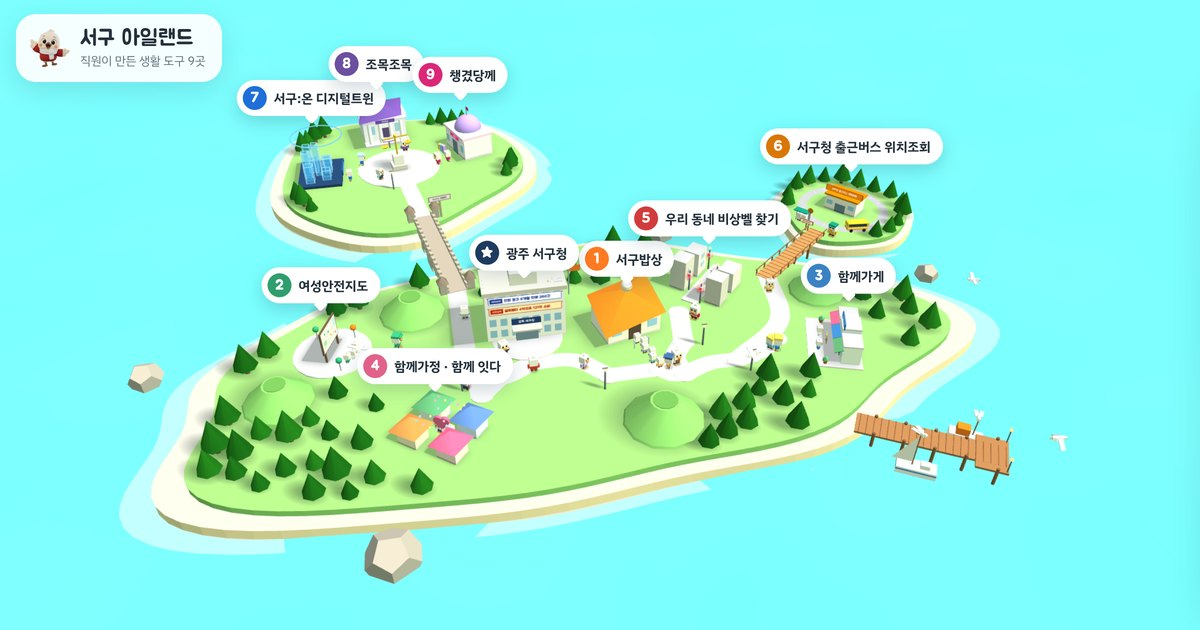
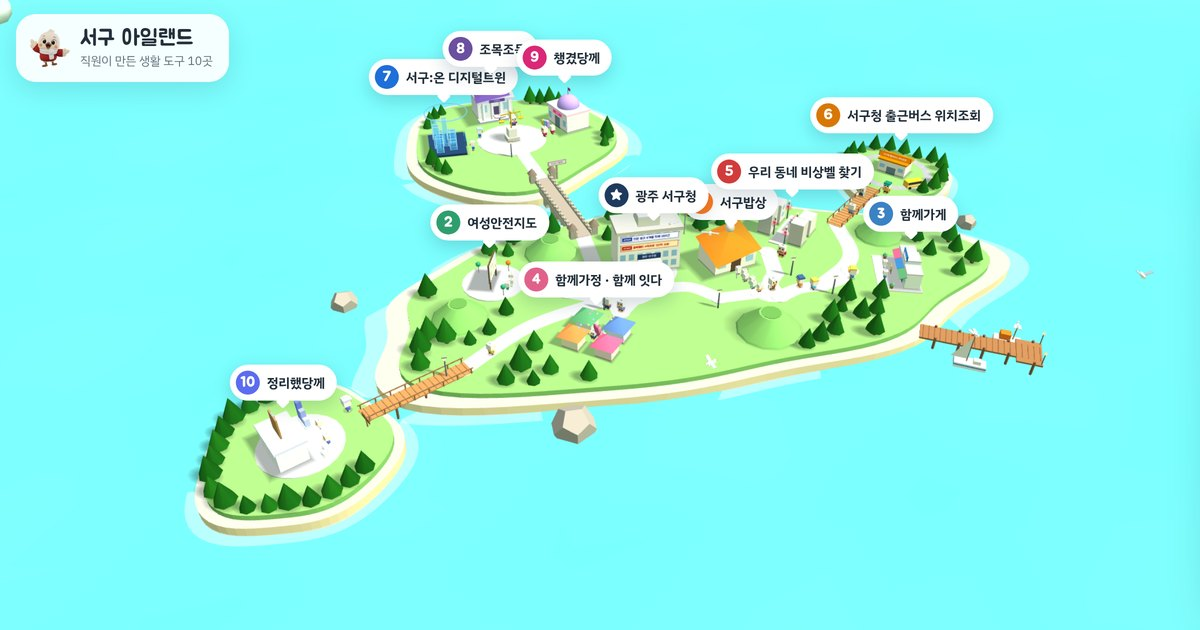
Island: add 다비치 아일랜드 (south-west islet over a wooden bridge) with 정리했당께, a survey tally app — office with a rooftop checklist, bar-chart sculpture, guide 해온이 and card #10; widen the overview so all four islands fit; count now 10; new share preview
Claude-Session: https://claude.ai/code/session_01Rn2FnTmWsitNSVHCMP1upV

diff --git a/index.html b/index.html
@@ -3,9 +3,9 @@
 <head>
 <meta charset="utf-8">
 <meta name="viewport" content="width=device-width,initial-scale=1,viewport-fit=cover">
-<meta name="description" content="서구청 직원이 만든 생활 도구 9곳 — 서구밥상, 여성안전지도, 함께가게, 함께가정, 우리 동네 비상벨 찾기, 서구청 출근버스 위치조회, 서구:온, 조목조목, 챙겼당께">
+<meta name="description" content="서구청 직원이 만든 생활 도구 10곳 — 서구밥상, 여성안전지도, 함께가게, 함께가정, 우리 동네 비상벨 찾기, 서구청 출근버스 위치조회, 서구:온, 조목조목, 챙겼당께, 정리했당께">
 <meta property="og:title" content="서구 아일랜드">
-<meta property="og:description" content="해온이와 함께 둘러보는 서구 생활 도구 9곳. 눌러서 바로 쓰고, 휴대폰에 설치하세요.">
+<meta property="og:description" content="해온이와 함께 둘러보는 서구 생활 도구 10곳. 눌러서 바로 쓰고, 휴대폰에 설치하세요.">
 <meta property="og:type" content="website">
 <meta property="og:url" content="https://hkejys9654-tech.github.io/seogu-island/">
 <meta property="og:image" content="https://hkejys9654-tech.github.io/seogu-island/og.jpg">
@@ -190,7 +190,7 @@ window.SKY=(function(){
 <div class="loading" id="loading"><img alt="" id="loadImg"></div>
 
 <div class="top">
-  <div class="brand"><img alt="" id="brandImg"><div><h1>서구 아일랜드</h1><p>직원이 만든 생활 도구 9곳</p></div></div>
+  <div class="brand"><img alt="" id="brandImg"><div><h1>서구 아일랜드</h1><p>직원이 만든 생활 도구 10곳</p></div></div>
   <div class="tools">
     <button class="tbtn" id="viewBtn" type="button">목록으로 보기</button>
     <div class="tools-row"><button class="ibtn" id="helpBtn" type="button" aria-label="조작 방법 보기" hidden>?</button><button class="ibtn" id="sndBtn" type="button" aria-label="파도·갈매기 소리 켜기" aria-pressed="false">🔇</button></div>
@@ -284,7 +284,11 @@ const PROJECTS=[
   {key:"chaeng",no:"09",name:"챙겼당께",color:"#db2777",pose:"heart",who:"의회·예산 업무를 맡은 공무원",island:"저스티스 아일랜드",by:"의형 개발",
    one:"의회 회의록·예산·조례를 함께 찾아, 근거가 담긴 의회 답변자료와 보고전을 만들어요.",
    chips:["의회 회의록 검색","예산·집행 확인","답변자료·보고전 한글 파일"],url:"https://local-govern.vercel.app/",
-   talk:{hi:"반가워요! 의회 답변 근거를 챙겨 드리는 챙김 해온이예요.",what:"한 줄로 물어보면 여러 해의 회의록·예산·조례를 함께 확인해서, 사업 설명과 예상 답변을 근거와 함께 정리해 주는 AI 서비스예요.",who:"의회·예산·조례 대응 업무를 맡은 공무원이 써요. 의형 님이 만들었어요."}}
+   talk:{hi:"반가워요! 의회 답변 근거를 챙겨 드리는 챙김 해온이예요.",what:"한 줄로 물어보면 여러 해의 회의록·예산·조례를 함께 확인해서, 사업 설명과 예상 답변을 근거와 함께 정리해 주는 AI 서비스예요.",who:"의회·예산·조례 대응 업무를 맡은 공무원이 써요. 의형 님이 만들었어요."}},
+  {key:"jeongri",no:"10",name:"정리했당께",color:"#5b6cf0",pose:"thumbs",who:"만족도 조사를 맡은 담당자",island:"다비치 아일랜드",
+   one:"종이 만족도 조사지를 스캔해 올리면 표시한 답을 자동으로 읽어 문항별로 모아줘요.",
+   chips:["빈 설문지 등록","응답지 한꺼번에 올리기","자동 집계·CSV"],url:"https://qnpfr7-del.github.io/KMK/",
+   talk:{hi:"다비치 아일랜드에 온 걸 환영해요! 설문지를 척척 정리하는 정리 해온이예요.",what:"종이 만족도 조사지를 스캔해서 올리면, 빈 설문지와 비교해 표시한 답을 자동으로 읽고 문항별·프로그램별로 모아 주는 앱이에요. 결과는 CSV로 내려받을 수 있어요.",who:"종이 설문으로 만족도 조사를 하는 담당자라면 누구나 써요. 빈 설문지를 먼저 등록하고, 응답지를 한꺼번에 올리면 돼요."}}
 ];
 
 // 처음 열 때 쓰는 기본 기사(매일 아침 news.json 으로 바뀜)
@@ -338,23 +342,24 @@ slab(1,6.1,.35,M(0xf1dfae));   // sand (바다 바닥까지)
 slab(.93,1.2,.9,M(0x84c46a));  // grass
 
 /* ---------- 작은 섬들: 정미니 아일랜드(동북쪽), 저스티스 아일랜드(서구청 뒤 북쪽) ---------- */
-const ISLES=[{x:33,z:-19,r:7.5,s:[1,2]},{x:-15,z:-38,r:15.5,s:[2.2,.4]}],JC=ISLES[1];
+const ISLES=[{x:33,z:-19,r:7.5,s:[1,2]},{x:-15,z:-38,r:15.5,s:[2.2,.4]},{x:-40,z:17,r:8.5,s:[.7,1.9]}],JC=ISLES[1],DC=ISLES[2];/* 정미니(동북), 저스티스(서구청 뒤 북쪽), 다비치(남서쪽) */
 function Rk(I,a){return I.r*(1+.05*Math.sin(3*a+I.s[0])+.03*Math.sin(5*a+I.s[1]));}
 function rhoI(I,x,z){const dx=x-I.x,dz=z-I.z;return Math.hypot(dx,dz)/Rk(I,Math.atan2(dz,dx));}
 function marchBridge(I,T){const dx=T.x-I.x,dz=T.z-I.z,L=Math.hypot(dx,dz),ux=dx/L,uz=dz/L;let s=0;while(rhoI(I,I.x+ux*s,I.z+uz*s)<.82)s+=.05;const B={x:I.x+ux*s,z:I.z+uz*s};while(rhoAt(I.x+ux*s,I.z+uz*s)>.8)s+=.05;return {A:{x:I.x+ux*s,z:I.z+uz*s},B,ry:Math.atan2(ux,uz)};}
 const JB=marchBridge(JC,{x:-9,z:-8}),JRY=JB.ry;// 저스티스 아일랜드의 앞쪽(다리 쪽) 방향
-const BRIDGES=[{A:{x:20.4,z:-8.3},B:{x:28.1,z:-14.8},stone:false},{A:JB.A,B:JB.B,stone:true}];
+const DB=marchBridge(DC,{x:-22,z:8});
+const BRIDGES=[{A:{x:20.4,z:-8.3},B:{x:28.1,z:-14.8},stone:false},{A:JB.A,B:JB.B,stone:true},{A:DB.A,B:DB.B,stone:false}];
 function jl(lx,lz,lry,reach){const c=Math.cos(JRY),s=Math.sin(JRY);return [JC.x+lx*c+lz*s,JC.z-lx*s+lz*c,lry+JRY,reach,1.3];}// 섬 기준 좌표 → 지도 좌표
 /* ---------- 배치: 십자 모양 대신 섬 곳곳에 흩어진 건물과 구불구불한 길 ---------- */
 const HX=-4,HZ=-3;// 광주 서구청(가운데에서 살짝 서쪽)
 // x, z, 건물 앞쪽 방향, 앞쪽 길이 닿는 거리
 const LAYOUT={bapsang:[5,-3,.25,6.6],safety:[-21,-4,1.25,5.4],store:[23,3,-1.9,5.4],family:[-12,8,2.46,5.4],bell:[14,-8,-.75,5.4],bus:[33,-19,-.869,5.8],
-  seoguon:jl(-8.6,-1.6,1.39,4.4),jomok:jl(0,-8.6,0,4.4),chaeng:jl(8.6,-1.6,-1.39,4.4)};
+  seoguon:jl(-8.6,-1.6,1.39,4.4),jomok:jl(0,-8.6,0,4.4),chaeng:jl(8.6,-1.6,-1.39,4.4),jeongri:[DC.x,DC.z,DB.ry,5.4]};
 const ZONES=PROJECTS.map(p=>{const [x,z,ry,reach,sc]=LAYOUT[p.key],fx=Math.sin(ry),fz=Math.cos(ry);return {x,z,ry,fx,fz,ex:x+fx*reach,ez:z+fz*reach,sc:sc||1,p};});
-const PN={br0:[20.4,-8.3],jA:[JB.A.x,JB.A.z],jB:[JB.B.x,JB.B.z],jP:[JC.x+Math.sin(JRY)*4.6,JC.z+Math.cos(JRY)*4.6],hub:[HX,HZ+3.6],w1:[-9.5,1.4],w2:[-13.4,-.6],e1:[2.2,3.4],e2:[8.6,4.4],e3:[13.6,3.4],b1:[9.6,.2]};
+const PN={dA:[DB.A.x,DB.A.z],br0:[20.4,-8.3],jA:[JB.A.x,JB.A.z],jB:[JB.B.x,JB.B.z],jP:[JC.x+Math.sin(JRY)*4.6,JC.z+Math.cos(JRY)*4.6],hub:[HX,HZ+3.6],w1:[-9.5,1.4],w2:[-13.4,-.6],e1:[2.2,3.4],e2:[8.6,4.4],e3:[13.6,3.4],b1:[9.6,.2]};
 ZONES.forEach(z=>PN[z.p.key]=[z.ex,z.ez]);
 const EDGES=[["hub","w1"],["w1","w2"],["w2","safety"],["w1","family"],["hub","family"],["hub","e1"],["e1","bapsang"],["bapsang","e2"],["e2","e3"],["e3","store"],["e2","b1"],["b1","bell"],["e3","br0"],["w1","jA",0],
-  ["jB","jP",0],["jP","seoguon",0],["jP","chaeng",0],["seoguon","jomok",0],["jomok","chaeng",0]];
+  ["jB","jP",0],["jP","seoguon",0],["jP","chaeng",0],["seoguon","jomok",0],["jomok","chaeng",0],["w1","dA",.08]];
 const PATH_PTS=[],NODES=[],nodeOf={};
 function addNode(x,z){NODES.push({x,z,n:[]});return NODES.length-1;}
 function link(a,b){NODES[a].n.push(b);NODES[b].n.push(a);}
@@ -367,12 +372,12 @@ EDGES.forEach(([a,b,bend],i)=>{
   const pos=[],idx=[];pts.forEach((p,k)=>{const q=pts[Math.min(k+1,pts.length-1)],r=pts[Math.max(k-1,0)],tx=q.x-r.x,tz=q.z-r.z,tl=Math.hypot(tx,tz)||1,nx=-tz/tl*.9,nz=tx/tl*.9;pos.push(p.x+nx,.96,p.z+nz,p.x-nx,.96,p.z-nz);if(k)idx.push(2*k-2,2*k-1,2*k,2*k-1,2*k+1,2*k);});
   const g=new THREE.BufferGeometry();g.setAttribute("position",new THREE.Float32BufferAttribute(pos,3));g.setIndex(idx);g.computeVertexNormals();scene.add(new THREE.Mesh(g,pathMat));
   let prev=nodeOf[a];for(let k=4;k<pts.length-2;k+=4){const id=addNode(pts[k].x,pts[k].z);link(prev,id);prev=id;}link(prev,nodeOf[b]);});
-[["br0","bus",0],["jA","jB",1]].forEach(([a,b,k0])=>{const Br=BRIDGES[k0];let prev=nodeOf[a];for(let k=1;k<=4;k++){const id=addNode(Br.A.x+(Br.B.x-Br.A.x)*k/5,Br.A.z+(Br.B.z-Br.A.z)*k/5);link(prev,id);prev=id;}link(prev,nodeOf[b]);});// 다리 건너 작은 섬으로
+[["br0","bus",0],["jA","jB",1],["dA","jeongri",2]].forEach(([a,b,k0])=>{const Br=BRIDGES[k0];let prev=nodeOf[a];for(let k=1;k<=4;k++){const id=addNode(Br.A.x+(Br.B.x-Br.A.x)*k/5,Br.A.z+(Br.B.z-Br.A.z)*k/5);link(prev,id);prev=id;}link(prev,nodeOf[b]);});// 다리 건너 작은 섬으로
 ZONES.forEach(z=>NODES[nodeOf[z.p.key]].end=z.ry+Math.PI);// 길 끝에서는 건물을 바라봄
-Object.keys(PN).forEach(k=>{if(!["hub","bus","seoguon","jomok","chaeng"].includes(k))cyl(1,1,.1,0xe9dcc0,PN[k][0],.91,PN[k][1],null,14);});
+Object.keys(PN).forEach(k=>{if(!["hub","bus","seoguon","jomok","chaeng","jeongri"].includes(k))cyl(1,1,.1,0xe9dcc0,PN[k][0],.91,PN[k][1],null,14);});
 cyl(3.2,3.2,0.14,0xe9dcc0,HX,0.95,HZ,null,20);
 /* 가로등: 길목 다섯 곳 옆 빈 자리에 세워 밤에 불을 밝힘 */
-const LAMP_AT=["w1","e1","e3","b1","jP"].map(k=>{let best=null,bd=-1;for(let i=0;i<8;i++){const a=i*Math.PI/4+.4,x=PN[k][0]+Math.cos(a)*1.7,z=PN[k][1]+Math.sin(a)*1.7;let d=1e9;for(const q of PATH_PTS)d=Math.min(d,Math.hypot(x-q.x,z-q.z));if(d>bd){bd=d;best=[x,z];}}return best;});
+const LAMP_AT=["w1","e1","e3","b1","jP","dA"].map(k=>{let best=null,bd=-1;for(let i=0;i<8;i++){const a=i*Math.PI/4+.4,x=PN[k][0]+Math.cos(a)*1.7,z=PN[k][1]+Math.sin(a)*1.7;let d=1e9;for(const q of PATH_PTS)d=Math.min(d,Math.hypot(x-q.x,z-q.z));if(d>bd){bd=d;best=[x,z];}}return best;});
 LAMP_AT.forEach(([x,z])=>{const l=new THREE.Group();l.position.set(x,3.02,z);scene.add(l);LAMPS.push(l);});
 
 /* ---------- 작은 섬 땅 + 다리(정미니: 나무다리, 저스티스: 중세 돌다리) ---------- */
@@ -610,9 +615,28 @@ function zoneChaeng(g){
   [[-1.4,0xf5c84c],[-.95,0x7cc4e8],[-.5,0xb59ae8]].forEach(([x,c],k)=>{box(.4,.55+k*.12,.3,c,x,(.55+k*.12)/2,2,g);});
   person(1.2,2.4,g,0xdb2777);
 }
+/* ---------- zone 10: 정리했당께 (다비치 아일랜드: 설문 집계 사무소 + 지붕 위 큰 체크리스트 + 막대그래프) ---------- */
+function zoneJeongri(g){
+  cyl(3.8,3.8,.1,0xeceafc,0,.06,.3,g,24);
+  box(4.2,2.2,2.6,0xf6f5ff,0,1.1,-1,g);box(4.5,.2,2.9,0xd9dcfb,0,2.3,-1,g);
+  box(.9,1.3,.06,0x4f5aa8,0,.65,.31,g);[-1.45,1.45].forEach(x=>win(g,x,1.15,.31,.75,.6));
+  box(2.05,.46,.08,0x4453c9,0,1.78,.31,g);signPlate(g,"정리했당께","#5b6cf0",1.9,1.78,.36);
+  // 지붕 위 큰 체크리스트(클립보드)
+  const ck=canvasTex(160,200,(x,w,h)=>{x.fillStyle="#fff";x.fillRect(0,0,w,h);for(let r=0;r<4;r++){const y=34+r*42;x.strokeStyle="#c9cff7";x.lineWidth=4;x.strokeRect(16,y-12,24,24);x.fillStyle="#dfe3f5";x.fillRect(52,y-5,88,10);
+    if(r<3){x.strokeStyle="#22b07d";x.lineWidth=7;x.lineCap="round";x.beginPath();x.moveTo(19,y);x.lineTo(27,y+8);x.lineTo(43,y-12);x.stroke();}}});
+  box(1.7,2.1,.14,0xb08350,0,3.5,-1.2,g);const pp=new THREE.Mesh(new THREE.PlaneGeometry(1.42,1.78),new THREE.MeshLambertMaterial({map:ck}));pp.position.set(0,3.42,-1.12);g.add(pp);box(.62,.2,.16,0x9aa3ab,0,4.5,-1.16,g);
+  // 막대그래프 조형물
+  box(1.9,.12,.7,0xd9dcfb,2.45,.12,1.7,g);[[1.85,.8,0xc7d0ff],[2.45,1.4,0x9fadfa],[3.05,2,0x6f7ff2]].forEach(([x,h,c])=>box(.46,h,.46,c,x,.18+h/2,1.7,g));
+  // 설문지 더미
+  [[-2.5,1.5],[-1.85,1.9]].forEach(([x,z],k)=>{for(let i=0;i<4-k;i++){const s=box(.66,.1,.5,i%2?0xfffdf5:0xffffff,x,.16+i*.1,z,g);s.rotation.y=(i%2?.18:-.1)+k*.3;}});
+  // 섬 입구 표지판: 다비치 아일랜드
+  const dTex=canvasTex(384,96,(x,w,h)=>{x.fillStyle="#eef0fd";x.fillRect(0,0,w,h);x.strokeStyle="#5b6cf0";x.lineWidth=8;x.strokeRect(4,4,w-8,h-8);x.fillStyle="#3f4bb8";x.font='bold 44px "Jua","IBM Plex Sans KR",sans-serif';x.textAlign="center";x.textBaseline="middle";x.fillText("다비치 아일랜드",w/2,h/2+3);});
+  box(.1,1.1,.1,0x8a6440,-1.4,.55,5.9,g);box(1.5,.42,.08,0x8a6440,-1.4,1.05,5.9,g);const ds=new THREE.Mesh(new THREE.PlaneGeometry(1.4,.35),new THREE.MeshBasicMaterial({map:dTex}));ds.position.set(-1.4,1.05,5.95);g.add(ds);
+  person(-1.2,2.3,g,0x5b6cf0);person(.9,2.5,g,0xffffff);
+}
 const glowTex=canvasTex(64,64,(x,w,h)=>{const r=x.createRadialGradient(32,32,2,32,32,32);r.addColorStop(0,"rgba(255,255,255,1)");r.addColorStop(1,"rgba(255,255,255,0)");x.fillStyle=r;x.fillRect(0,0,w,h);});
 
-const builders={bapsang:zoneBapsang,safety:zoneSafety,store:zoneStore,family:zoneFamily,bell:zoneBell,bus:zoneBus,seoguon:zoneSeoguon,jomok:zoneJomok,chaeng:zoneChaeng};
+const builders={bapsang:zoneBapsang,safety:zoneSafety,store:zoneStore,family:zoneFamily,bell:zoneBell,bus:zoneBus,seoguon:zoneSeoguon,jomok:zoneJomok,chaeng:zoneChaeng,jeongri:zoneJeongri};
 ZONES.forEach((z,i)=>{const g=new THREE.Group();g.position.set(z.x,0.9,z.z);g.rotation.y=z.ry;g.scale.setScalar(z.sc);builders[z.p.key](g);scene.add(g);z.group=g;
   g.traverse(o=>{if(o.isMesh)o.userData.zone=i;});
   const ring=new THREE.Mesh(new THREE.RingGeometry(4.6,4.9,40),new THREE.MeshBasicMaterial({color:new THREE.Color(z.p.color),transparent:true,opacity:0}));ring.rotation.x=-Math.PI/2;ring.position.set(z.x,0.97,z.z);if(z.p.key==="jomok")ring.visible=false;scene.add(ring);z.ring=ring;
@@ -634,8 +658,8 @@ function clearSpot(x,z){if(rhoAt(x,z)>.88)return false;
 const TREE=[];
 for(let i=0;i<900&&TREE.length<110;i++){const a=rnd()*Math.PI*2,f=.5+Math.sqrt(rnd())*.38,k=coastK(a)*f,x=Math.cos(a)*IA*k,z=Math.sin(a)*IB*k;
   if(!clearSpot(x,z)||TREE.some(([tx,tz])=>Math.hypot(tx-x,tz-z)<1.8))continue;TREE.push([x,z,.75+rnd()*.5]);}
-ISLES.forEach((I,ii)=>{const Br=BRIDGES[ii],front=Math.atan2(Br.A.z-I.z,Br.A.x-I.x),skip=ZONES.filter(z=>rhoI(I,z.x,z.z)<1&&Math.hypot(z.x-I.x,z.z-I.z)>2).map(z=>Math.atan2(z.z-I.z,z.x-I.x)),cnt=ii?36:14;
-  for(let k=0;k<cnt;k++){const a=front+1.05+k*(Math.PI*2-2.1)/(cnt-1);if(skip.some(b=>Math.abs(((a-b+Math.PI*3)%(Math.PI*2))-Math.PI)<.42))continue;const r=Rk(I,a)*.82;if(ii&&Math.hypot(I.x+Math.cos(a)*r-JC.sign.position.x,I.z+Math.sin(a)*r-JC.sign.position.z)<4)continue;TREE.push([I.x+Math.cos(a)*r,I.z+Math.sin(a)*r,.75+rnd()*.4]);}});// 작은 섬 둘레 나무
+ISLES.forEach((I,ii)=>{const Br=BRIDGES[ii],front=Math.atan2(Br.A.z-I.z,Br.A.x-I.x),skip=ZONES.filter(z=>rhoI(I,z.x,z.z)<1&&Math.hypot(z.x-I.x,z.z-I.z)>2).map(z=>Math.atan2(z.z-I.z,z.x-I.x)),cnt=[14,36,18][ii];
+  for(let k=0;k<cnt;k++){const a=front+1.05+k*(Math.PI*2-2.1)/(cnt-1);if(skip.some(b=>Math.abs(((a-b+Math.PI*3)%(Math.PI*2))-Math.PI)<.42))continue;const r=Rk(I,a)*.82;if(ii===1&&Math.hypot(I.x+Math.cos(a)*r-JC.sign.position.x,I.z+Math.sin(a)*r-JC.sign.position.z)<4)continue;TREE.push([I.x+Math.cos(a)*r,I.z+Math.sin(a)*r,.75+rnd()*.4]);}});// 작은 섬 둘레 나무
 const trunks=new THREE.InstancedMesh(new THREE.CylinderGeometry(0.15,0.2,1,6),M(0x7a5536),TREE.length);
 const leaves=new THREE.InstancedMesh(new THREE.ConeGeometry(0.9,2,7),M(0x4f9a4a),TREE.length);
 const m4=new THREE.Matrix4(),q=new THREE.Quaternion(),one=new THREE.Vector3();
@@ -701,7 +725,7 @@ function walkable(x,z){if(rhoAt(x,z)<=.86||ISLES.some(I=>rhoI(I,x,z)<=.84))retur
 scene.updateMatrixWorld(true);
 const OBST=[],RECTS=[{x0:HX-3.75,x1:HX+3.75,z0:HZ-3.55,z1:HZ+.38,h:8,top:6.4}];
 // 건물마다 지붕 높이(건물 기준): 날다가 그 위에 내려앉아 걸을 수 있음
-const ROOF_TOP={bapsang:3.3,store:2.2,family:2.2,bus:1.95,jomok:2.6,chaeng:2.3,bell:2.6};
+const ROOF_TOP={jeongri:2.4,bapsang:3.3,store:2.2,family:2.2,bus:1.95,jomok:2.6,chaeng:2.3,bell:2.6};
 const LOCAL_OBST={
   bapsang:[[-1.6,0,1.9],[0,0,1.9],[1.6,0,1.9],[-.7,3.2,.15],[.7,3.2,.15],...[0,1,2,3,4,5].map(i=>[0,2.6+i*.75,.3])],
   safety:[[-1.1,0,.5],[-.35,0,.5],[.35,0,.5],[1.1,0,.5],[-2.2,1.6,.3],[2.3,1.2,.3],[1.6,-2,.3],[-1,1.8,.3],[-.4,2.1,.3],[.6,1.9,.3]],
@@ -711,6 +735,7 @@ const LOCAL_OBST={
   seoguon:[[-1.3,-.6,1.3],[1.1,-.6,1.3],[0,1.1,.9],[-1.6,2.4,.3]],
   jomok:[[-1.1,-.6,1.4],[1.1,-.6,1.4],...[-1.5,-.5,.5,1.5].map(x=>[x,1.1,.25]),[0,2.2,.4],[1.3,2.6,.3]],
   chaeng:[[-1.1,-.4,1.4],[1.1,-.4,1.4],[-.95,2,.5],[1.2,2.4,.3]],
+  jeongri:[[-1.1,-1,1.4],[1.1,-1,1.4],[2.45,1.7,.75],[-2.2,1.7,.5],[-1.2,2.3,.3],[.9,2.5,.3],[-1.4,5.9,.15]],
   bell:[[-2,-1.6,1.1,2.6],[-2,1.2,1.15,3.2],[2,-1,1.15,2.2],[2,1.8,1,2.8],[-.95,-2.6,.2],[.95,-.4,.2],[-.95,1.6,.2],[.95,3,.2],[.2,-1.4,.3]]};
 {const v=new THREE.Vector3();ZONES.forEach(z=>LOCAL_OBST[z.p.key].forEach(([x,y,r,tp])=>{v.set(x,0,y);z.group.localToWorld(v);const rt=r>.9?(tp!==undefined?tp:ROOF_TOP[z.p.key]):0;OBST.push({x:v.x,z:v.z,r:r*z.sc,h:r>.9?4.6*z.sc:0,top:rt?.9+rt*z.sc:0});}));}
 PIER.posts.forEach(q=>OBST.push({x:q.x,z:q.z,r:.16,h:0,top:q.y}));[boat,sail].forEach(b=>OBST.push({x:b.position.x,z:b.position.z,r:1.25,h:0,top:.08,sr:1.1}));
@@ -770,7 +795,7 @@ const moonMat=new THREE.SpriteMaterial({map:canvasTex(128,128,(x)=>{const r=x.cr
 const SH_ROUND=[],SH_RECT=[];
 TREE.forEach(([x,z,s])=>SH_ROUND.push([x,z,.85*s,1.8*s]));OREUM.forEach(([x,z,r])=>SH_ROUND.push([x,z,r*.95,r*.45]));SH_ROUND.push([JC.x,JC.z,1.3,3.2]);LAMP_AT.forEach(([x,z])=>SH_ROUND.push([x,z,.22,3]));
 SH_RECT.push([HX,HZ-1.6,7.4,3.8,0,6.2]);
-{const L={bapsang:[[0,0,5.6,4,3]],store:[[0,-.8,5.9,1.8,2]],family:[[-1.8,-1.2,2,1.8,1.7],[1.8,-1.4,2,1.8,1.7],[-1.6,1.8,2,1.8,1.7],[1.9,1.6,2,1.8,1.7]],bell:[[-2,-1.6,1.6,1.8,2.6],[-2,1.2,1.6,1.8,3.2],[2,-1,1.6,2,2.2],[2,1.8,1.6,1.6,2.8]],bus:[[0,-.2,3.8,2.4,1.8]],seoguon:[[0,-.2,5,3.8,1.2]],jomok:[[0,-.2,4.4,3.8,2.6]],chaeng:[[0,-.4,4.3,3.1,2.2]],safety:[[0,0,3.2,.5,3.2]]},v=new THREE.Vector3();
+{const L={bapsang:[[0,0,5.6,4,3]],store:[[0,-.8,5.9,1.8,2]],family:[[-1.8,-1.2,2,1.8,1.7],[1.8,-1.4,2,1.8,1.7],[-1.6,1.8,2,1.8,1.7],[1.9,1.6,2,1.8,1.7]],bell:[[-2,-1.6,1.6,1.8,2.6],[-2,1.2,1.6,1.8,3.2],[2,-1,1.6,2,2.2],[2,1.8,1.6,1.6,2.8]],bus:[[0,-.2,3.8,2.4,1.8]],seoguon:[[0,-.2,5,3.8,1.2]],jomok:[[0,-.2,4.4,3.8,2.6]],chaeng:[[0,-.4,4.3,3.1,2.2]],jeongri:[[0,-1,4.4,2.8,2.4]],safety:[[0,0,3.2,.5,3.2]]},v=new THREE.Vector3();
   ZONES.forEach(z=>(L[z.p.key]||[]).forEach(([x,y,w,d,h])=>{v.set(x,0,y);z.group.localToWorld(v);SH_RECT.push([v.x,v.z,w*z.sc,d*z.sc,z.ry,h*z.sc]);}));}
 const SHM=new THREE.MeshBasicMaterial({color:0x12241d,vertexColors:true,transparent:true,opacity:.34,depthWrite:false,side:THREE.DoubleSide,polygonOffset:true,polygonOffsetFactor:-2,polygonOffsetUnits:-2});
 /* 가운데는 진하고 가장자리로 갈수록 옅어지는 납작한 모양(그림 파일 없이 꼭짓점 투명도로 만듦) */
@@ -800,7 +825,8 @@ const NPC_LOOK={
   bus:{name:"버스 해온이",look:{top:0xf5b82e,pants:0x2d3440,cap:0x14866d,extra:"collar"}},
   seoguon:{name:"트윈 해온이",look:{top:0x1e6fd9,pants:0x22355a,cap:0x9be7ff,extra:"collar"}},
   jomok:{name:"조목 해온이",look:{top:0x6b4fa0,pants:0x2d3440,extra:"suit"}},
-  chaeng:{name:"챙김 해온이",look:{top:0xdb2777,pants:0x2e3f63,extra:"scarf",scarf:0xf5c84c}}};
+  chaeng:{name:"챙김 해온이",look:{top:0xdb2777,pants:0x2e3f63,extra:"scarf",scarf:0xf5c84c}},
+  jeongri:{name:"정리 해온이",look:{top:0x5b6cf0,pants:0x2d3440,cap:0xc7d0ff,extra:"collar"}}};
 const NPCS=[...ZONES.map(z=>({...NPC_LOOK[z.p.key],zone:z})),{name:"안내 해온이",look:{top:0x22355a,pants:0x22355a,extra:"suit"}}].map((n,i)=>{
   let x=HX-2.3,z=HZ+2.1,yaw=.35;if(n.zone){const q=n.zone;x=q.ex+q.fz*1.6;z=q.ez-q.fx*1.6;yaw=q.ry;}
   const h=makeHaeon(n.look,1);h.root.position.set(x,groundAt(x,z),z);h.root.rotation.y=h.yaw=h.home=yaw;h.root.userData.npc=i;scene.add(h.root);
@@ -834,7 +860,7 @@ function updateWalkers(dt){walkers.forEach(w=>{
 
 /* ---------- camera rig ---------- */
 // 섬 전체 보기: 가로 화면은 남쪽에서, 세로 화면(폰)은 섬을 세로로 길게 보이도록 동쪽에서
-function overview(){const r=innerWidth/innerHeight;return r<.8?{tx:-2.7,ty:1,tz:-10.6,az:-2.09,el:.86,dist:r<.6?226:198,ox:0,oy:0}:{tx:3,ty:1,tz:-5,az:-.2,el:.66,dist:r<1.25?96:82,ox:0,oy:0};}
+function overview(){const r=innerWidth/innerHeight;return r<.8?{tx:-13,ty:1,tz:-16,az:-1.3,el:.86,dist:Math.min(250,116/r),ox:0,oy:0}:{tx:-11,ty:1,tz:4,az:-.2,el:.66,dist:r<1.25?112:r<1.5?98:90,ox:0,oy:0};}
 function nearAng(a,cur){return cur+(((a-cur+Math.PI)%(Math.PI*2))+Math.PI*2)%(Math.PI*2)-Math.PI;}
 function overGoal(){const o=overview(),a=nearAng(o.az,rig.az),b=nearAng(o.az+Math.PI,rig.az);o.az=innerWidth/innerHeight<.8||Math.abs(a-rig.az)<=Math.abs(b-rig.az)?a:b;return o;}// 폰은 정미니 아일랜드가 위쪽에 보이도록 방향 고정
 const LAND_AZ=.08;function hallView(){const narrow=innerWidth/innerHeight<.8;return {tx:HX,ty:3,tz:HZ,az:LAND_AZ,el:.36,dist:narrow?36:28,ox:0,oy:0};}
@@ -1037,7 +1063,7 @@ function talkContent(i,step){
     if(step==="news"){const items=(NEWS.items||[]).slice(0,2);
       return {msg:items.length?"오늘 여러 언론이 많이 다룬 서구 소식이에요. 구청 현수막에도 걸어뒀어요!":"오늘 소식을 아직 못 가져왔어요. 조금 뒤에 다시 물어봐 주세요.",
         opts:[...items.map((n,k)=>({href:n.url,l:`${k+1}. ${n.short||n.title} ↗`,cls:"wide"})),...ask,bye]};}
-    return {msg:step==="island"?"서구청 직원이 일하면서 만든 생활 도구 9곳을 모아둔 섬이에요. 동쪽 나무다리를 건너면 정미니 아일랜드, 서구청 뒤 돌다리를 건너면 저스티스 아일랜드가 있어요. 섬 곳곳 건물 앞에 서 있는 해온이들에게 말을 걸면 하나씩 알려줘요.":"광주 서구청에 오신 걸 환영해요! 섬 안내를 맡은 안내 해온이예요. 뭐부터 알려드릴까요?",
+    return {msg:step==="island"?"서구청 직원이 일하면서 만든 생활 도구 10곳을 모아둔 섬이에요. 동쪽 나무다리를 건너면 정미니 아일랜드, 서구청 뒤 돌다리를 건너면 저스티스 아일랜드, 남서쪽 나무다리를 건너면 다비치 아일랜드가 있어요. 섬 곳곳 건물 앞에 서 있는 해온이들에게 말을 걸면 하나씩 알려줘요.":"광주 서구청에 오신 걸 환영해요! 섬 안내를 맡은 안내 해온이예요. 뭐부터 알려드릴까요?",
       opts:[...ask,{href:"https://www.seogu.gwangju.kr/",l:"서구청 누리집 ↗"},bye]};
   }
   const p=PROJECTS[i],ask=[{k:"what",l:"이건 뭐예요?"},{k:"who",l:"누가 쓰나요?"},{k:"install",l:"폰에 어떻게 깔아요?"}].filter(o=>o.k!==step);

diff --git a/src/template.html b/src/template.html
@@ -173,7 +173,7 @@ window.SKY=(function(){
 <div class="loading" id="loading"><img alt="" id="loadImg"></div>
 
 <div class="top">
-  <div class="brand"><img alt="" id="brandImg"><div><h1>서구 아일랜드</h1><p>직원이 만든 생활 도구 9곳</p></div></div>
+  <div class="brand"><img alt="" id="brandImg"><div><h1>서구 아일랜드</h1><p>직원이 만든 생활 도구 10곳</p></div></div>
   <div class="tools">
     <button class="tbtn" id="viewBtn" type="button">목록으로 보기</button>
     <div class="tools-row"><button class="ibtn" id="helpBtn" type="button" aria-label="조작 방법 보기" hidden>?</button><button class="ibtn" id="sndBtn" type="button" aria-label="파도·갈매기 소리 켜기" aria-pressed="false">🔇</button></div>
@@ -267,7 +267,11 @@ const PROJECTS=[
   {key:"chaeng",no:"09",name:"챙겼당께",color:"#db2777",pose:"heart",who:"의회·예산 업무를 맡은 공무원",island:"저스티스 아일랜드",by:"의형 개발",
    one:"의회 회의록·예산·조례를 함께 찾아, 근거가 담긴 의회 답변자료와 보고전을 만들어요.",
    chips:["의회 회의록 검색","예산·집행 확인","답변자료·보고전 한글 파일"],url:"https://local-govern.vercel.app/",
-   talk:{hi:"반가워요! 의회 답변 근거를 챙겨 드리는 챙김 해온이예요.",what:"한 줄로 물어보면 여러 해의 회의록·예산·조례를 함께 확인해서, 사업 설명과 예상 답변을 근거와 함께 정리해 주는 AI 서비스예요.",who:"의회·예산·조례 대응 업무를 맡은 공무원이 써요. 의형 님이 만들었어요."}}
+   talk:{hi:"반가워요! 의회 답변 근거를 챙겨 드리는 챙김 해온이예요.",what:"한 줄로 물어보면 여러 해의 회의록·예산·조례를 함께 확인해서, 사업 설명과 예상 답변을 근거와 함께 정리해 주는 AI 서비스예요.",who:"의회·예산·조례 대응 업무를 맡은 공무원이 써요. 의형 님이 만들었어요."}},
+  {key:"jeongri",no:"10",name:"정리했당께",color:"#5b6cf0",pose:"thumbs",who:"만족도 조사를 맡은 담당자",island:"다비치 아일랜드",
+   one:"종이 만족도 조사지를 스캔해 올리면 표시한 답을 자동으로 읽어 문항별로 모아줘요.",
+   chips:["빈 설문지 등록","응답지 한꺼번에 올리기","자동 집계·CSV"],url:"https://qnpfr7-del.github.io/KMK/",
+   talk:{hi:"다비치 아일랜드에 온 걸 환영해요! 설문지를 척척 정리하는 정리 해온이예요.",what:"종이 만족도 조사지를 스캔해서 올리면, 빈 설문지와 비교해 표시한 답을 자동으로 읽고 문항별·프로그램별로 모아 주는 앱이에요. 결과는 CSV로 내려받을 수 있어요.",who:"종이 설문으로 만족도 조사를 하는 담당자라면 누구나 써요. 빈 설문지를 먼저 등록하고, 응답지를 한꺼번에 올리면 돼요."}}
 ];
 
 // 처음 열 때 쓰는 기본 기사(매일 아침 news.json 으로 바뀜)
@@ -321,23 +325,24 @@ slab(1,6.1,.35,M(0xf1dfae));   // sand (바다 바닥까지)
 slab(.93,1.2,.9,M(0x84c46a));  // grass
 
 /* ---------- 작은 섬들: 정미니 아일랜드(동북쪽), 저스티스 아일랜드(서구청 뒤 북쪽) ---------- */
-const ISLES=[{x:33,z:-19,r:7.5,s:[1,2]},{x:-15,z:-38,r:15.5,s:[2.2,.4]}],JC=ISLES[1];
+const ISLES=[{x:33,z:-19,r:7.5,s:[1,2]},{x:-15,z:-38,r:15.5,s:[2.2,.4]},{x:-40,z:17,r:8.5,s:[.7,1.9]}],JC=ISLES[1],DC=ISLES[2];/* 정미니(동북), 저스티스(서구청 뒤 북쪽), 다비치(남서쪽) */
 function Rk(I,a){return I.r*(1+.05*Math.sin(3*a+I.s[0])+.03*Math.sin(5*a+I.s[1]));}
 function rhoI(I,x,z){const dx=x-I.x,dz=z-I.z;return Math.hypot(dx,dz)/Rk(I,Math.atan2(dz,dx));}
 function marchBridge(I,T){const dx=T.x-I.x,dz=T.z-I.z,L=Math.hypot(dx,dz),ux=dx/L,uz=dz/L;let s=0;while(rhoI(I,I.x+ux*s,I.z+uz*s)<.82)s+=.05;const B={x:I.x+ux*s,z:I.z+uz*s};while(rhoAt(I.x+ux*s,I.z+uz*s)>.8)s+=.05;return {A:{x:I.x+ux*s,z:I.z+uz*s},B,ry:Math.atan2(ux,uz)};}
 const JB=marchBridge(JC,{x:-9,z:-8}),JRY=JB.ry;// 저스티스 아일랜드의 앞쪽(다리 쪽) 방향
-const BRIDGES=[{A:{x:20.4,z:-8.3},B:{x:28.1,z:-14.8},stone:false},{A:JB.A,B:JB.B,stone:true}];
+const DB=marchBridge(DC,{x:-22,z:8});
+const BRIDGES=[{A:{x:20.4,z:-8.3},B:{x:28.1,z:-14.8},stone:false},{A:JB.A,B:JB.B,stone:true},{A:DB.A,B:DB.B,stone:false}];
 function jl(lx,lz,lry,reach){const c=Math.cos(JRY),s=Math.sin(JRY);return [JC.x+lx*c+lz*s,JC.z-lx*s+lz*c,lry+JRY,reach,1.3];}// 섬 기준 좌표 → 지도 좌표
 /* ---------- 배치: 십자 모양 대신 섬 곳곳에 흩어진 건물과 구불구불한 길 ---------- */
 const HX=-4,HZ=-3;// 광주 서구청(가운데에서 살짝 서쪽)
 // x, z, 건물 앞쪽 방향, 앞쪽 길이 닿는 거리
 const LAYOUT={bapsang:[5,-3,.25,6.6],safety:[-21,-4,1.25,5.4],store:[23,3,-1.9,5.4],family:[-12,8,2.46,5.4],bell:[14,-8,-.75,5.4],bus:[33,-19,-.869,5.8],
-  seoguon:jl(-8.6,-1.6,1.39,4.4),jomok:jl(0,-8.6,0,4.4),chaeng:jl(8.6,-1.6,-1.39,4.4)};
+  seoguon:jl(-8.6,-1.6,1.39,4.4),jomok:jl(0,-8.6,0,4.4),chaeng:jl(8.6,-1.6,-1.39,4.4),jeongri:[DC.x,DC.z,DB.ry,5.4]};
 const ZONES=PROJECTS.map(p=>{const [x,z,ry,reach,sc]=LAYOUT[p.key],fx=Math.sin(ry),fz=Math.cos(ry);return {x,z,ry,fx,fz,ex:x+fx*reach,ez:z+fz*reach,sc:sc||1,p};});
-const PN={br0:[20.4,-8.3],jA:[JB.A.x,JB.A.z],jB:[JB.B.x,JB.B.z],jP:[JC.x+Math.sin(JRY)*4.6,JC.z+Math.cos(JRY)*4.6],hub:[HX,HZ+3.6],w1:[-9.5,1.4],w2:[-13.4,-.6],e1:[2.2,3.4],e2:[8.6,4.4],e3:[13.6,3.4],b1:[9.6,.2]};
+const PN={dA:[DB.A.x,DB.A.z],br0:[20.4,-8.3],jA:[JB.A.x,JB.A.z],jB:[JB.B.x,JB.B.z],jP:[JC.x+Math.sin(JRY)*4.6,JC.z+Math.cos(JRY)*4.6],hub:[HX,HZ+3.6],w1:[-9.5,1.4],w2:[-13.4,-.6],e1:[2.2,3.4],e2:[8.6,4.4],e3:[13.6,3.4],b1:[9.6,.2]};
 ZONES.forEach(z=>PN[z.p.key]=[z.ex,z.ez]);
 const EDGES=[["hub","w1"],["w1","w2"],["w2","safety"],["w1","family"],["hub","family"],["hub","e1"],["e1","bapsang"],["bapsang","e2"],["e2","e3"],["e3","store"],["e2","b1"],["b1","bell"],["e3","br0"],["w1","jA",0],
-  ["jB","jP",0],["jP","seoguon",0],["jP","chaeng",0],["seoguon","jomok",0],["jomok","chaeng",0]];
+  ["jB","jP",0],["jP","seoguon",0],["jP","chaeng",0],["seoguon","jomok",0],["jomok","chaeng",0],["w1","dA",.08]];
 const PATH_PTS=[],NODES=[],nodeOf={};
 function addNode(x,z){NODES.push({x,z,n:[]});return NODES.length-1;}
 function link(a,b){NODES[a].n.push(b);NODES[b].n.push(a);}
@@ -350,12 +355,12 @@ EDGES.forEach(([a,b,bend],i)=>{
   const pos=[],idx=[];pts.forEach((p,k)=>{const q=pts[Math.min(k+1,pts.length-1)],r=pts[Math.max(k-1,0)],tx=q.x-r.x,tz=q.z-r.z,tl=Math.hypot(tx,tz)||1,nx=-tz/tl*.9,nz=tx/tl*.9;pos.push(p.x+nx,.96,p.z+nz,p.x-nx,.96,p.z-nz);if(k)idx.push(2*k-2,2*k-1,2*k,2*k-1,2*k+1,2*k);});
   const g=new THREE.BufferGeometry();g.setAttribute("position",new THREE.Float32BufferAttribute(pos,3));g.setIndex(idx);g.computeVertexNormals();scene.add(new THREE.Mesh(g,pathMat));
   let prev=nodeOf[a];for(let k=4;k<pts.length-2;k+=4){const id=addNode(pts[k].x,pts[k].z);link(prev,id);prev=id;}link(prev,nodeOf[b]);});
-[["br0","bus",0],["jA","jB",1]].forEach(([a,b,k0])=>{const Br=BRIDGES[k0];let prev=nodeOf[a];for(let k=1;k<=4;k++){const id=addNode(Br.A.x+(Br.B.x-Br.A.x)*k/5,Br.A.z+(Br.B.z-Br.A.z)*k/5);link(prev,id);prev=id;}link(prev,nodeOf[b]);});// 다리 건너 작은 섬으로
+[["br0","bus",0],["jA","jB",1],["dA","jeongri",2]].forEach(([a,b,k0])=>{const Br=BRIDGES[k0];let prev=nodeOf[a];for(let k=1;k<=4;k++){const id=addNode(Br.A.x+(Br.B.x-Br.A.x)*k/5,Br.A.z+(Br.B.z-Br.A.z)*k/5);link(prev,id);prev=id;}link(prev,nodeOf[b]);});// 다리 건너 작은 섬으로
 ZONES.forEach(z=>NODES[nodeOf[z.p.key]].end=z.ry+Math.PI);// 길 끝에서는 건물을 바라봄
-Object.keys(PN).forEach(k=>{if(!["hub","bus","seoguon","jomok","chaeng"].includes(k))cyl(1,1,.1,0xe9dcc0,PN[k][0],.91,PN[k][1],null,14);});
+Object.keys(PN).forEach(k=>{if(!["hub","bus","seoguon","jomok","chaeng","jeongri"].includes(k))cyl(1,1,.1,0xe9dcc0,PN[k][0],.91,PN[k][1],null,14);});
 cyl(3.2,3.2,0.14,0xe9dcc0,HX,0.95,HZ,null,20);
 /* 가로등: 길목 다섯 곳 옆 빈 자리에 세워 밤에 불을 밝힘 */
-const LAMP_AT=["w1","e1","e3","b1","jP"].map(k=>{let best=null,bd=-1;for(let i=0;i<8;i++){const a=i*Math.PI/4+.4,x=PN[k][0]+Math.cos(a)*1.7,z=PN[k][1]+Math.sin(a)*1.7;let d=1e9;for(const q of PATH_PTS)d=Math.min(d,Math.hypot(x-q.x,z-q.z));if(d>bd){bd=d;best=[x,z];}}return best;});
+const LAMP_AT=["w1","e1","e3","b1","jP","dA"].map(k=>{let best=null,bd=-1;for(let i=0;i<8;i++){const a=i*Math.PI/4+.4,x=PN[k][0]+Math.cos(a)*1.7,z=PN[k][1]+Math.sin(a)*1.7;let d=1e9;for(const q of PATH_PTS)d=Math.min(d,Math.hypot(x-q.x,z-q.z));if(d>bd){bd=d;best=[x,z];}}return best;});
 LAMP_AT.forEach(([x,z])=>{const l=new THREE.Group();l.position.set(x,3.02,z);scene.add(l);LAMPS.push(l);});
 
 /* ---------- 작은 섬 땅 + 다리(정미니: 나무다리, 저스티스: 중세 돌다리) ---------- */
@@ -593,9 +598,28 @@ function zoneChaeng(g){
   [[-1.4,0xf5c84c],[-.95,0x7cc4e8],[-.5,0xb59ae8]].forEach(([x,c],k)=>{box(.4,.55+k*.12,.3,c,x,(.55+k*.12)/2,2,g);});
   person(1.2,2.4,g,0xdb2777);
 }
+/* ---------- zone 10: 정리했당께 (다비치 아일랜드: 설문 집계 사무소 + 지붕 위 큰 체크리스트 + 막대그래프) ---------- */
+function zoneJeongri(g){
+  cyl(3.8,3.8,.1,0xeceafc,0,.06,.3,g,24);
+  box(4.2,2.2,2.6,0xf6f5ff,0,1.1,-1,g);box(4.5,.2,2.9,0xd9dcfb,0,2.3,-1,g);
+  box(.9,1.3,.06,0x4f5aa8,0,.65,.31,g);[-1.45,1.45].forEach(x=>win(g,x,1.15,.31,.75,.6));
+  box(2.05,.46,.08,0x4453c9,0,1.78,.31,g);signPlate(g,"정리했당께","#5b6cf0",1.9,1.78,.36);
+  // 지붕 위 큰 체크리스트(클립보드)
+  const ck=canvasTex(160,200,(x,w,h)=>{x.fillStyle="#fff";x.fillRect(0,0,w,h);for(let r=0;r<4;r++){const y=34+r*42;x.strokeStyle="#c9cff7";x.lineWidth=4;x.strokeRect(16,y-12,24,24);x.fillStyle="#dfe3f5";x.fillRect(52,y-5,88,10);
+    if(r<3){x.strokeStyle="#22b07d";x.lineWidth=7;x.lineCap="round";x.beginPath();x.moveTo(19,y);x.lineTo(27,y+8);x.lineTo(43,y-12);x.stroke();}}});
+  box(1.7,2.1,.14,0xb08350,0,3.5,-1.2,g);const pp=new THREE.Mesh(new THREE.PlaneGeometry(1.42,1.78),new THREE.MeshLambertMaterial({map:ck}));pp.position.set(0,3.42,-1.12);g.add(pp);box(.62,.2,.16,0x9aa3ab,0,4.5,-1.16,g);
+  // 막대그래프 조형물
+  box(1.9,.12,.7,0xd9dcfb,2.45,.12,1.7,g);[[1.85,.8,0xc7d0ff],[2.45,1.4,0x9fadfa],[3.05,2,0x6f7ff2]].forEach(([x,h,c])=>box(.46,h,.46,c,x,.18+h/2,1.7,g));
+  // 설문지 더미
+  [[-2.5,1.5],[-1.85,1.9]].forEach(([x,z],k)=>{for(let i=0;i<4-k;i++){const s=box(.66,.1,.5,i%2?0xfffdf5:0xffffff,x,.16+i*.1,z,g);s.rotation.y=(i%2?.18:-.1)+k*.3;}});
+  // 섬 입구 표지판: 다비치 아일랜드
+  const dTex=canvasTex(384,96,(x,w,h)=>{x.fillStyle="#eef0fd";x.fillRect(0,0,w,h);x.strokeStyle="#5b6cf0";x.lineWidth=8;x.strokeRect(4,4,w-8,h-8);x.fillStyle="#3f4bb8";x.font='bold 44px "Jua","IBM Plex Sans KR",sans-serif';x.textAlign="center";x.textBaseline="middle";x.fillText("다비치 아일랜드",w/2,h/2+3);});
+  box(.1,1.1,.1,0x8a6440,-1.4,.55,5.9,g);box(1.5,.42,.08,0x8a6440,-1.4,1.05,5.9,g);const ds=new THREE.Mesh(new THREE.PlaneGeometry(1.4,.35),new THREE.MeshBasicMaterial({map:dTex}));ds.position.set(-1.4,1.05,5.95);g.add(ds);
+  person(-1.2,2.3,g,0x5b6cf0);person(.9,2.5,g,0xffffff);
+}
 const glowTex=canvasTex(64,64,(x,w,h)=>{const r=x.createRadialGradient(32,32,2,32,32,32);r.addColorStop(0,"rgba(255,255,255,1)");r.addColorStop(1,"rgba(255,255,255,0)");x.fillStyle=r;x.fillRect(0,0,w,h);});
 
-const builders={bapsang:zoneBapsang,safety:zoneSafety,store:zoneStore,family:zoneFamily,bell:zoneBell,bus:zoneBus,seoguon:zoneSeoguon,jomok:zoneJomok,chaeng:zoneChaeng};
+const builders={bapsang:zoneBapsang,safety:zoneSafety,store:zoneStore,family:zoneFamily,bell:zoneBell,bus:zoneBus,seoguon:zoneSeoguon,jomok:zoneJomok,chaeng:zoneChaeng,jeongri:zoneJeongri};
 ZONES.forEach((z,i)=>{const g=new THREE.Group();g.position.set(z.x,0.9,z.z);g.rotation.y=z.ry;g.scale.setScalar(z.sc);builders[z.p.key](g);scene.add(g);z.group=g;
   g.traverse(o=>{if(o.isMesh)o.userData.zone=i;});
   const ring=new THREE.Mesh(new THREE.RingGeometry(4.6,4.9,40),new THREE.MeshBasicMaterial({color:new THREE.Color(z.p.color),transparent:true,opacity:0}));ring.rotation.x=-Math.PI/2;ring.position.set(z.x,0.97,z.z);if(z.p.key==="jomok")ring.visible=false;scene.add(ring);z.ring=ring;
@@ -617,8 +641,8 @@ function clearSpot(x,z){if(rhoAt(x,z)>.88)return false;
 const TREE=[];
 for(let i=0;i<900&&TREE.length<110;i++){const a=rnd()*Math.PI*2,f=.5+Math.sqrt(rnd())*.38,k=coastK(a)*f,x=Math.cos(a)*IA*k,z=Math.sin(a)*IB*k;
   if(!clearSpot(x,z)||TREE.some(([tx,tz])=>Math.hypot(tx-x,tz-z)<1.8))continue;TREE.push([x,z,.75+rnd()*.5]);}
-ISLES.forEach((I,ii)=>{const Br=BRIDGES[ii],front=Math.atan2(Br.A.z-I.z,Br.A.x-I.x),skip=ZONES.filter(z=>rhoI(I,z.x,z.z)<1&&Math.hypot(z.x-I.x,z.z-I.z)>2).map(z=>Math.atan2(z.z-I.z,z.x-I.x)),cnt=ii?36:14;
-  for(let k=0;k<cnt;k++){const a=front+1.05+k*(Math.PI*2-2.1)/(cnt-1);if(skip.some(b=>Math.abs(((a-b+Math.PI*3)%(Math.PI*2))-Math.PI)<.42))continue;const r=Rk(I,a)*.82;if(ii&&Math.hypot(I.x+Math.cos(a)*r-JC.sign.position.x,I.z+Math.sin(a)*r-JC.sign.position.z)<4)continue;TREE.push([I.x+Math.cos(a)*r,I.z+Math.sin(a)*r,.75+rnd()*.4]);}});// 작은 섬 둘레 나무
+ISLES.forEach((I,ii)=>{const Br=BRIDGES[ii],front=Math.atan2(Br.A.z-I.z,Br.A.x-I.x),skip=ZONES.filter(z=>rhoI(I,z.x,z.z)<1&&Math.hypot(z.x-I.x,z.z-I.z)>2).map(z=>Math.atan2(z.z-I.z,z.x-I.x)),cnt=[14,36,18][ii];
+  for(let k=0;k<cnt;k++){const a=front+1.05+k*(Math.PI*2-2.1)/(cnt-1);if(skip.some(b=>Math.abs(((a-b+Math.PI*3)%(Math.PI*2))-Math.PI)<.42))continue;const r=Rk(I,a)*.82;if(ii===1&&Math.hypot(I.x+Math.cos(a)*r-JC.sign.position.x,I.z+Math.sin(a)*r-JC.sign.position.z)<4)continue;TREE.push([I.x+Math.cos(a)*r,I.z+Math.sin(a)*r,.75+rnd()*.4]);}});// 작은 섬 둘레 나무
 const trunks=new THREE.InstancedMesh(new THREE.CylinderGeometry(0.15,0.2,1,6),M(0x7a5536),TREE.length);
 const leaves=new THREE.InstancedMesh(new THREE.ConeGeometry(0.9,2,7),M(0x4f9a4a),TREE.length);
 const m4=new THREE.Matrix4(),q=new THREE.Quaternion(),one=new THREE.Vector3();
@@ -684,7 +708,7 @@ function walkable(x,z){if(rhoAt(x,z)<=.86||ISLES.some(I=>rhoI(I,x,z)<=.84))retur
 scene.updateMatrixWorld(true);
 const OBST=[],RECTS=[{x0:HX-3.75,x1:HX+3.75,z0:HZ-3.55,z1:HZ+.38,h:8,top:6.4}];
 // 건물마다 지붕 높이(건물 기준): 날다가 그 위에 내려앉아 걸을 수 있음
-const ROOF_TOP={bapsang:3.3,store:2.2,family:2.2,bus:1.95,jomok:2.6,chaeng:2.3,bell:2.6};
+const ROOF_TOP={jeongri:2.4,bapsang:3.3,store:2.2,family:2.2,bus:1.95,jomok:2.6,chaeng:2.3,bell:2.6};
 const LOCAL_OBST={
   bapsang:[[-1.6,0,1.9],[0,0,1.9],[1.6,0,1.9],[-.7,3.2,.15],[.7,3.2,.15],...[0,1,2,3,4,5].map(i=>[0,2.6+i*.75,.3])],
   safety:[[-1.1,0,.5],[-.35,0,.5],[.35,0,.5],[1.1,0,.5],[-2.2,1.6,.3],[2.3,1.2,.3],[1.6,-2,.3],[-1,1.8,.3],[-.4,2.1,.3],[.6,1.9,.3]],
@@ -694,6 +718,7 @@ const LOCAL_OBST={
   seoguon:[[-1.3,-.6,1.3],[1.1,-.6,1.3],[0,1.1,.9],[-1.6,2.4,.3]],
   jomok:[[-1.1,-.6,1.4],[1.1,-.6,1.4],...[-1.5,-.5,.5,1.5].map(x=>[x,1.1,.25]),[0,2.2,.4],[1.3,2.6,.3]],
   chaeng:[[-1.1,-.4,1.4],[1.1,-.4,1.4],[-.95,2,.5],[1.2,2.4,.3]],
+  jeongri:[[-1.1,-1,1.4],[1.1,-1,1.4],[2.45,1.7,.75],[-2.2,1.7,.5],[-1.2,2.3,.3],[.9,2.5,.3],[-1.4,5.9,.15]],
   bell:[[-2,-1.6,1.1,2.6],[-2,1.2,1.15,3.2],[2,-1,1.15,2.2],[2,1.8,1,2.8],[-.95,-2.6,.2],[.95,-.4,.2],[-.95,1.6,.2],[.95,3,.2],[.2,-1.4,.3]]};
 {const v=new THREE.Vector3();ZONES.forEach(z=>LOCAL_OBST[z.p.key].forEach(([x,y,r,tp])=>{v.set(x,0,y);z.group.localToWorld(v);const rt=r>.9?(tp!==undefined?tp:ROOF_TOP[z.p.key]):0;OBST.push({x:v.x,z:v.z,r:r*z.sc,h:r>.9?4.6*z.sc:0,top:rt?.9+rt*z.sc:0});}));}
 PIER.posts.forEach(q=>OBST.push({x:q.x,z:q.z,r:.16,h:0,top:q.y}));[boat,sail].forEach(b=>OBST.push({x:b.position.x,z:b.position.z,r:1.25,h:0,top:.08,sr:1.1}));
@@ -753,7 +778,7 @@ const moonMat=new THREE.SpriteMaterial({map:canvasTex(128,128,(x)=>{const r=x.cr
 const SH_ROUND=[],SH_RECT=[];
 TREE.forEach(([x,z,s])=>SH_ROUND.push([x,z,.85*s,1.8*s]));OREUM.forEach(([x,z,r])=>SH_ROUND.push([x,z,r*.95,r*.45]));SH_ROUND.push([JC.x,JC.z,1.3,3.2]);LAMP_AT.forEach(([x,z])=>SH_ROUND.push([x,z,.22,3]));
 SH_RECT.push([HX,HZ-1.6,7.4,3.8,0,6.2]);
-{const L={bapsang:[[0,0,5.6,4,3]],store:[[0,-.8,5.9,1.8,2]],family:[[-1.8,-1.2,2,1.8,1.7],[1.8,-1.4,2,1.8,1.7],[-1.6,1.8,2,1.8,1.7],[1.9,1.6,2,1.8,1.7]],bell:[[-2,-1.6,1.6,1.8,2.6],[-2,1.2,1.6,1.8,3.2],[2,-1,1.6,2,2.2],[2,1.8,1.6,1.6,2.8]],bus:[[0,-.2,3.8,2.4,1.8]],seoguon:[[0,-.2,5,3.8,1.2]],jomok:[[0,-.2,4.4,3.8,2.6]],chaeng:[[0,-.4,4.3,3.1,2.2]],safety:[[0,0,3.2,.5,3.2]]},v=new THREE.Vector3();
+{const L={bapsang:[[0,0,5.6,4,3]],store:[[0,-.8,5.9,1.8,2]],family:[[-1.8,-1.2,2,1.8,1.7],[1.8,-1.4,2,1.8,1.7],[-1.6,1.8,2,1.8,1.7],[1.9,1.6,2,1.8,1.7]],bell:[[-2,-1.6,1.6,1.8,2.6],[-2,1.2,1.6,1.8,3.2],[2,-1,1.6,2,2.2],[2,1.8,1.6,1.6,2.8]],bus:[[0,-.2,3.8,2.4,1.8]],seoguon:[[0,-.2,5,3.8,1.2]],jomok:[[0,-.2,4.4,3.8,2.6]],chaeng:[[0,-.4,4.3,3.1,2.2]],jeongri:[[0,-1,4.4,2.8,2.4]],safety:[[0,0,3.2,.5,3.2]]},v=new THREE.Vector3();
   ZONES.forEach(z=>(L[z.p.key]||[]).forEach(([x,y,w,d,h])=>{v.set(x,0,y);z.group.localToWorld(v);SH_RECT.push([v.x,v.z,w*z.sc,d*z.sc,z.ry,h*z.sc]);}));}
 const SHM=new THREE.MeshBasicMaterial({color:0x12241d,vertexColors:true,transparent:true,opacity:.34,depthWrite:false,side:THREE.DoubleSide,polygonOffset:true,polygonOffsetFactor:-2,polygonOffsetUnits:-2});
 /* 가운데는 진하고 가장자리로 갈수록 옅어지는 납작한 모양(그림 파일 없이 꼭짓점 투명도로 만듦) */
@@ -783,7 +808,8 @@ const NPC_LOOK={
   bus:{name:"버스 해온이",look:{top:0xf5b82e,pants:0x2d3440,cap:0x14866d,extra:"collar"}},
   seoguon:{name:"트윈 해온이",look:{top:0x1e6fd9,pants:0x22355a,cap:0x9be7ff,extra:"collar"}},
   jomok:{name:"조목 해온이",look:{top:0x6b4fa0,pants:0x2d3440,extra:"suit"}},
-  chaeng:{name:"챙김 해온이",look:{top:0xdb2777,pants:0x2e3f63,extra:"scarf",scarf:0xf5c84c}}};
+  chaeng:{name:"챙김 해온이",look:{top:0xdb2777,pants:0x2e3f63,extra:"scarf",scarf:0xf5c84c}},
+  jeongri:{name:"정리 해온이",look:{top:0x5b6cf0,pants:0x2d3440,cap:0xc7d0ff,extra:"collar"}}};
 const NPCS=[...ZONES.map(z=>({...NPC_LOOK[z.p.key],zone:z})),{name:"안내 해온이",look:{top:0x22355a,pants:0x22355a,extra:"suit"}}].map((n,i)=>{
   let x=HX-2.3,z=HZ+2.1,yaw=.35;if(n.zone){const q=n.zone;x=q.ex+q.fz*1.6;z=q.ez-q.fx*1.6;yaw=q.ry;}
   const h=makeHaeon(n.look,1);h.root.position.set(x,groundAt(x,z),z);h.root.rotation.y=h.yaw=h.home=yaw;h.root.userData.npc=i;scene.add(h.root);
@@ -817,7 +843,7 @@ function updateWalkers(dt){walkers.forEach(w=>{
 
 /* ---------- camera rig ---------- */
 // 섬 전체 보기: 가로 화면은 남쪽에서, 세로 화면(폰)은 섬을 세로로 길게 보이도록 동쪽에서
-function overview(){const r=innerWidth/innerHeight;return r<.8?{tx:-2.7,ty:1,tz:-10.6,az:-2.09,el:.86,dist:r<.6?226:198,ox:0,oy:0}:{tx:3,ty:1,tz:-5,az:-.2,el:.66,dist:r<1.25?96:82,ox:0,oy:0};}
+function overview(){const r=innerWidth/innerHeight;return r<.8?{tx:-13,ty:1,tz:-16,az:-1.3,el:.86,dist:Math.min(250,116/r),ox:0,oy:0}:{tx:-11,ty:1,tz:4,az:-.2,el:.66,dist:r<1.25?112:r<1.5?98:90,ox:0,oy:0};}
 function nearAng(a,cur){return cur+(((a-cur+Math.PI)%(Math.PI*2))+Math.PI*2)%(Math.PI*2)-Math.PI;}
 function overGoal(){const o=overview(),a=nearAng(o.az,rig.az),b=nearAng(o.az+Math.PI,rig.az);o.az=innerWidth/innerHeight<.8||Math.abs(a-rig.az)<=Math.abs(b-rig.az)?a:b;return o;}// 폰은 정미니 아일랜드가 위쪽에 보이도록 방향 고정
 const LAND_AZ=.08;function hallView(){const narrow=innerWidth/innerHeight<.8;return {tx:HX,ty:3,tz:HZ,az:LAND_AZ,el:.36,dist:narrow?36:28,ox:0,oy:0};}
@@ -1020,7 +1046,7 @@ function talkContent(i,step){
     if(step==="news"){const items=(NEWS.items||[]).slice(0,2);
       return {msg:items.length?"오늘 여러 언론이 많이 다룬 서구 소식이에요. 구청 현수막에도 걸어뒀어요!":"오늘 소식을 아직 못 가져왔어요. 조금 뒤에 다시 물어봐 주세요.",
         opts:[...items.map((n,k)=>({href:n.url,l:`${k+1}. ${n.short||n.title} ↗`,cls:"wide"})),...ask,bye]};}
-    return {msg:step==="island"?"서구청 직원이 일하면서 만든 생활 도구 9곳을 모아둔 섬이에요. 동쪽 나무다리를 건너면 정미니 아일랜드, 서구청 뒤 돌다리를 건너면 저스티스 아일랜드가 있어요. 섬 곳곳 건물 앞에 서 있는 해온이들에게 말을 걸면 하나씩 알려줘요.":"광주 서구청에 오신 걸 환영해요! 섬 안내를 맡은 안내 해온이예요. 뭐부터 알려드릴까요?",
+    return {msg:step==="island"?"서구청 직원이 일하면서 만든 생활 도구 10곳을 모아둔 섬이에요. 동쪽 나무다리를 건너면 정미니 아일랜드, 서구청 뒤 돌다리를 건너면 저스티스 아일랜드, 남서쪽 나무다리를 건너면 다비치 아일랜드가 있어요. 섬 곳곳 건물 앞에 서 있는 해온이들에게 말을 걸면 하나씩 알려줘요.":"광주 서구청에 오신 걸 환영해요! 섬 안내를 맡은 안내 해온이예요. 뭐부터 알려드릴까요?",
       opts:[...ask,{href:"https://www.seogu.gwangju.kr/",l:"서구청 누리집 ↗"},bye]};
   }
   const p=PROJECTS[i],ask=[{k:"what",l:"이건 뭐예요?"},{k:"who",l:"누가 쓰나요?"},{k:"install",l:"폰에 어떻게 깔아요?"}].filter(o=>o.k!==step);

diff --git a/src/head.html b/src/head.html
@@ -3,9 +3,9 @@
 <head>
 <meta charset="utf-8">
 <meta name="viewport" content="width=device-width,initial-scale=1,viewport-fit=cover">
-<meta name="description" content="서구청 직원이 만든 생활 도구 9곳 — 서구밥상, 여성안전지도, 함께가게, 함께가정, 우리 동네 비상벨 찾기, 서구청 출근버스 위치조회, 서구:온, 조목조목, 챙겼당께">
+<meta name="description" content="서구청 직원이 만든 생활 도구 10곳 — 서구밥상, 여성안전지도, 함께가게, 함께가정, 우리 동네 비상벨 찾기, 서구청 출근버스 위치조회, 서구:온, 조목조목, 챙겼당께, 정리했당께">
 <meta property="og:title" content="서구 아일랜드">
-<meta property="og:description" content="해온이와 함께 둘러보는 서구 생활 도구 9곳. 눌러서 바로 쓰고, 휴대폰에 설치하세요.">
+<meta property="og:description" content="해온이와 함께 둘러보는 서구 생활 도구 10곳. 눌러서 바로 쓰고, 휴대폰에 설치하세요.">
 <meta property="og:type" content="website">
 <meta property="og:url" content="https://hkejys9654-tech.github.io/seogu-island/">
 <meta property="og:image" content="https://hkejys9654-tech.github.io/seogu-island/og.jpg">
